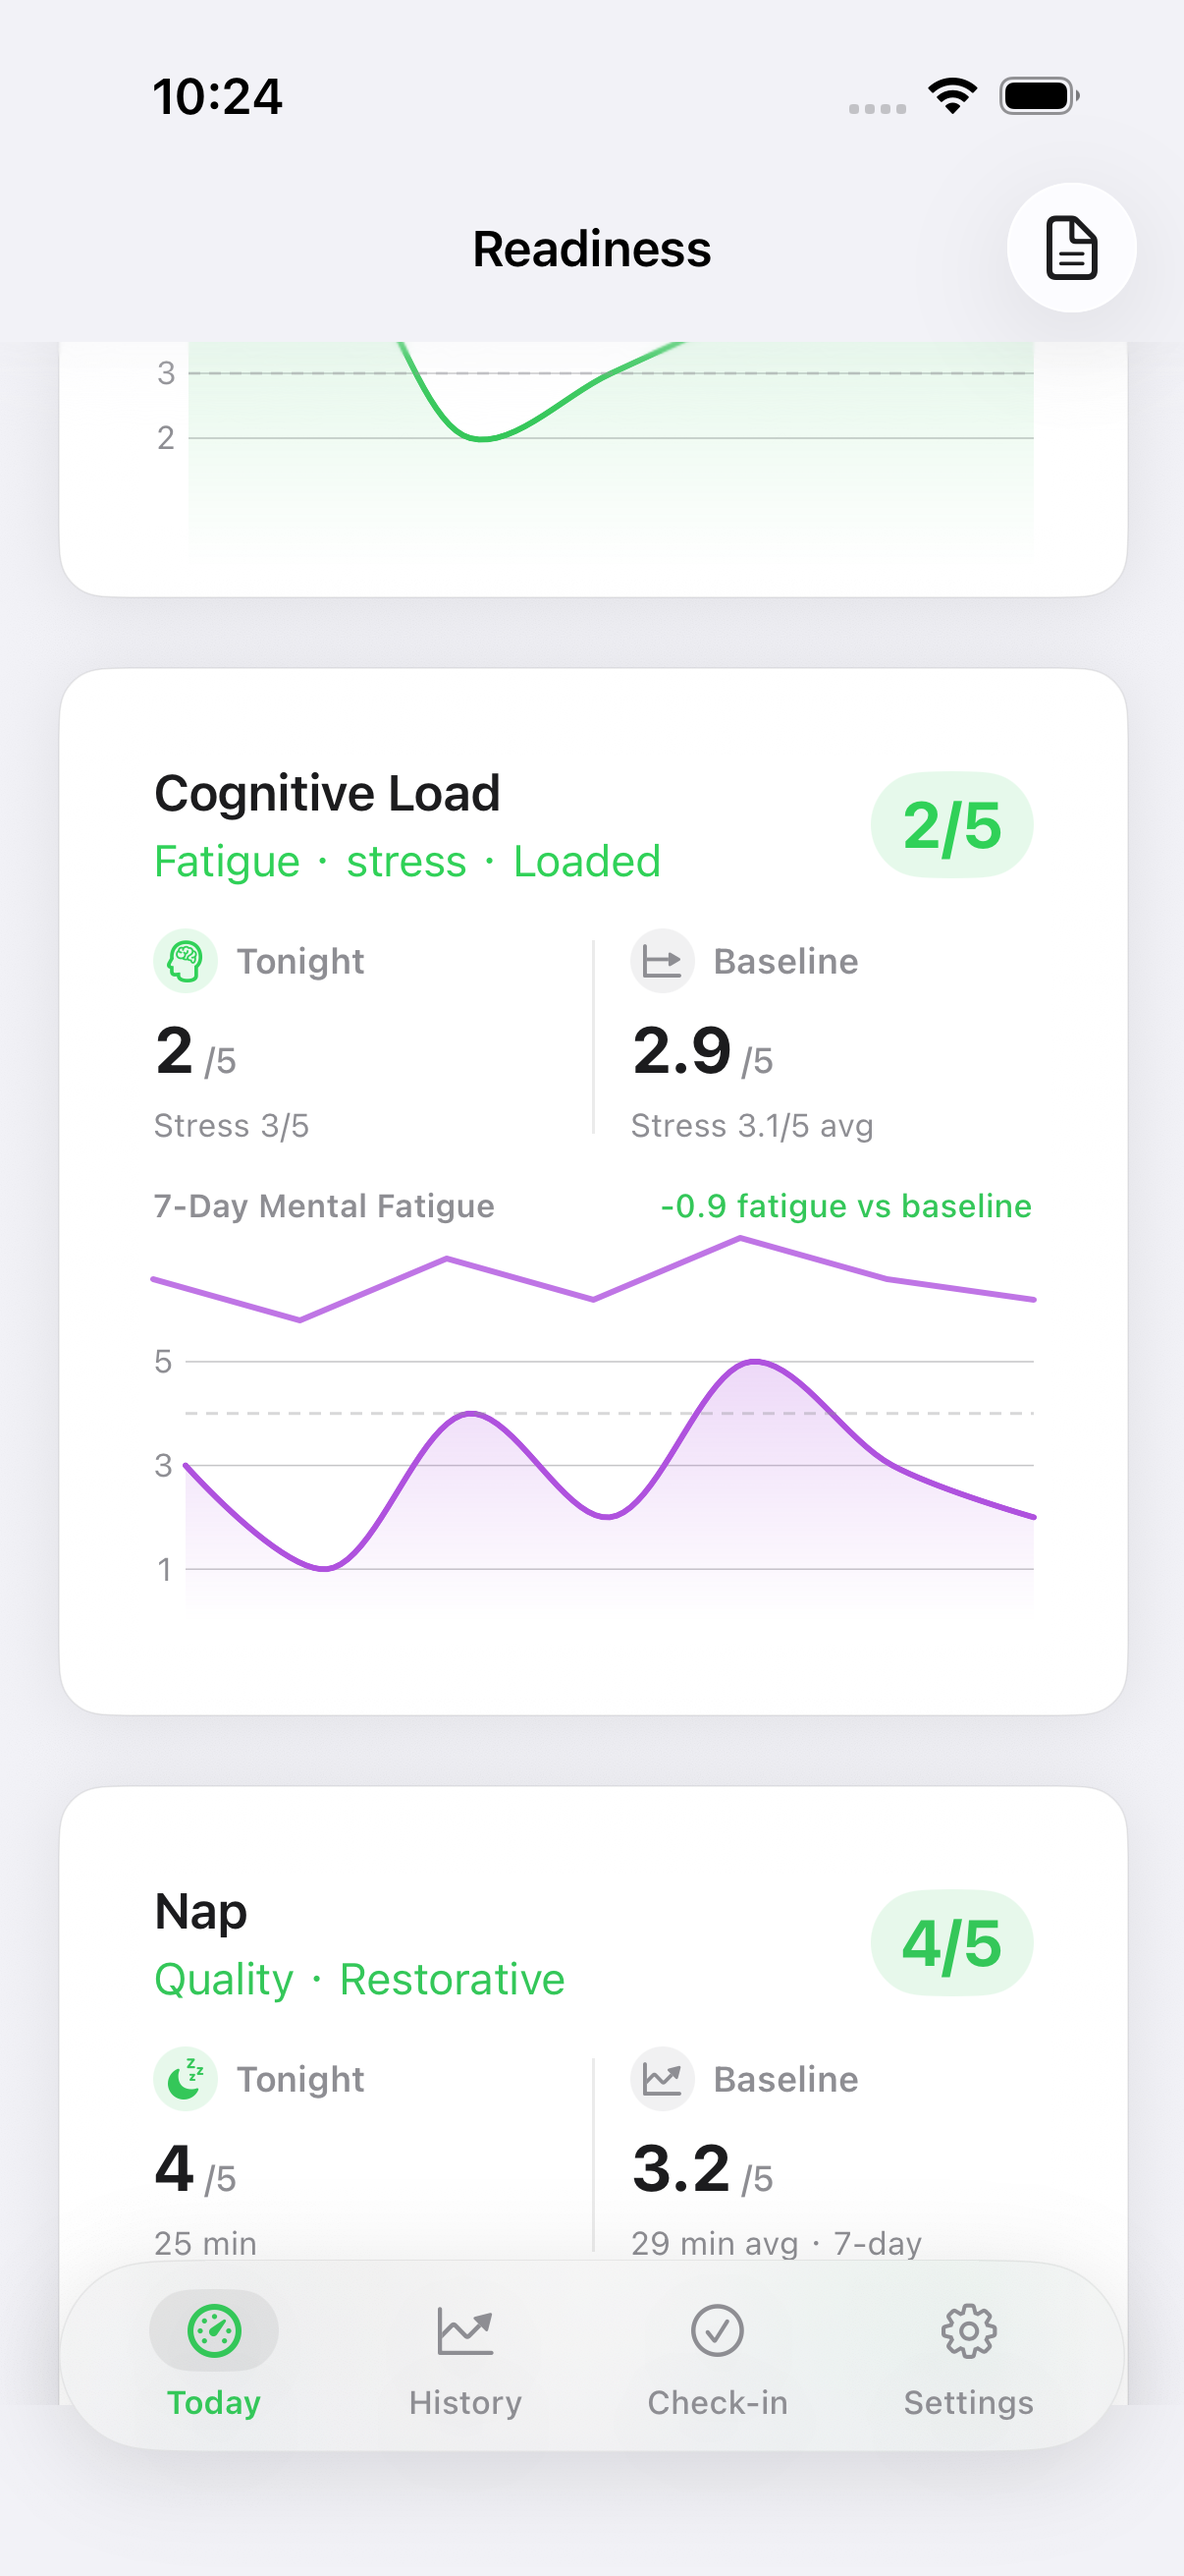
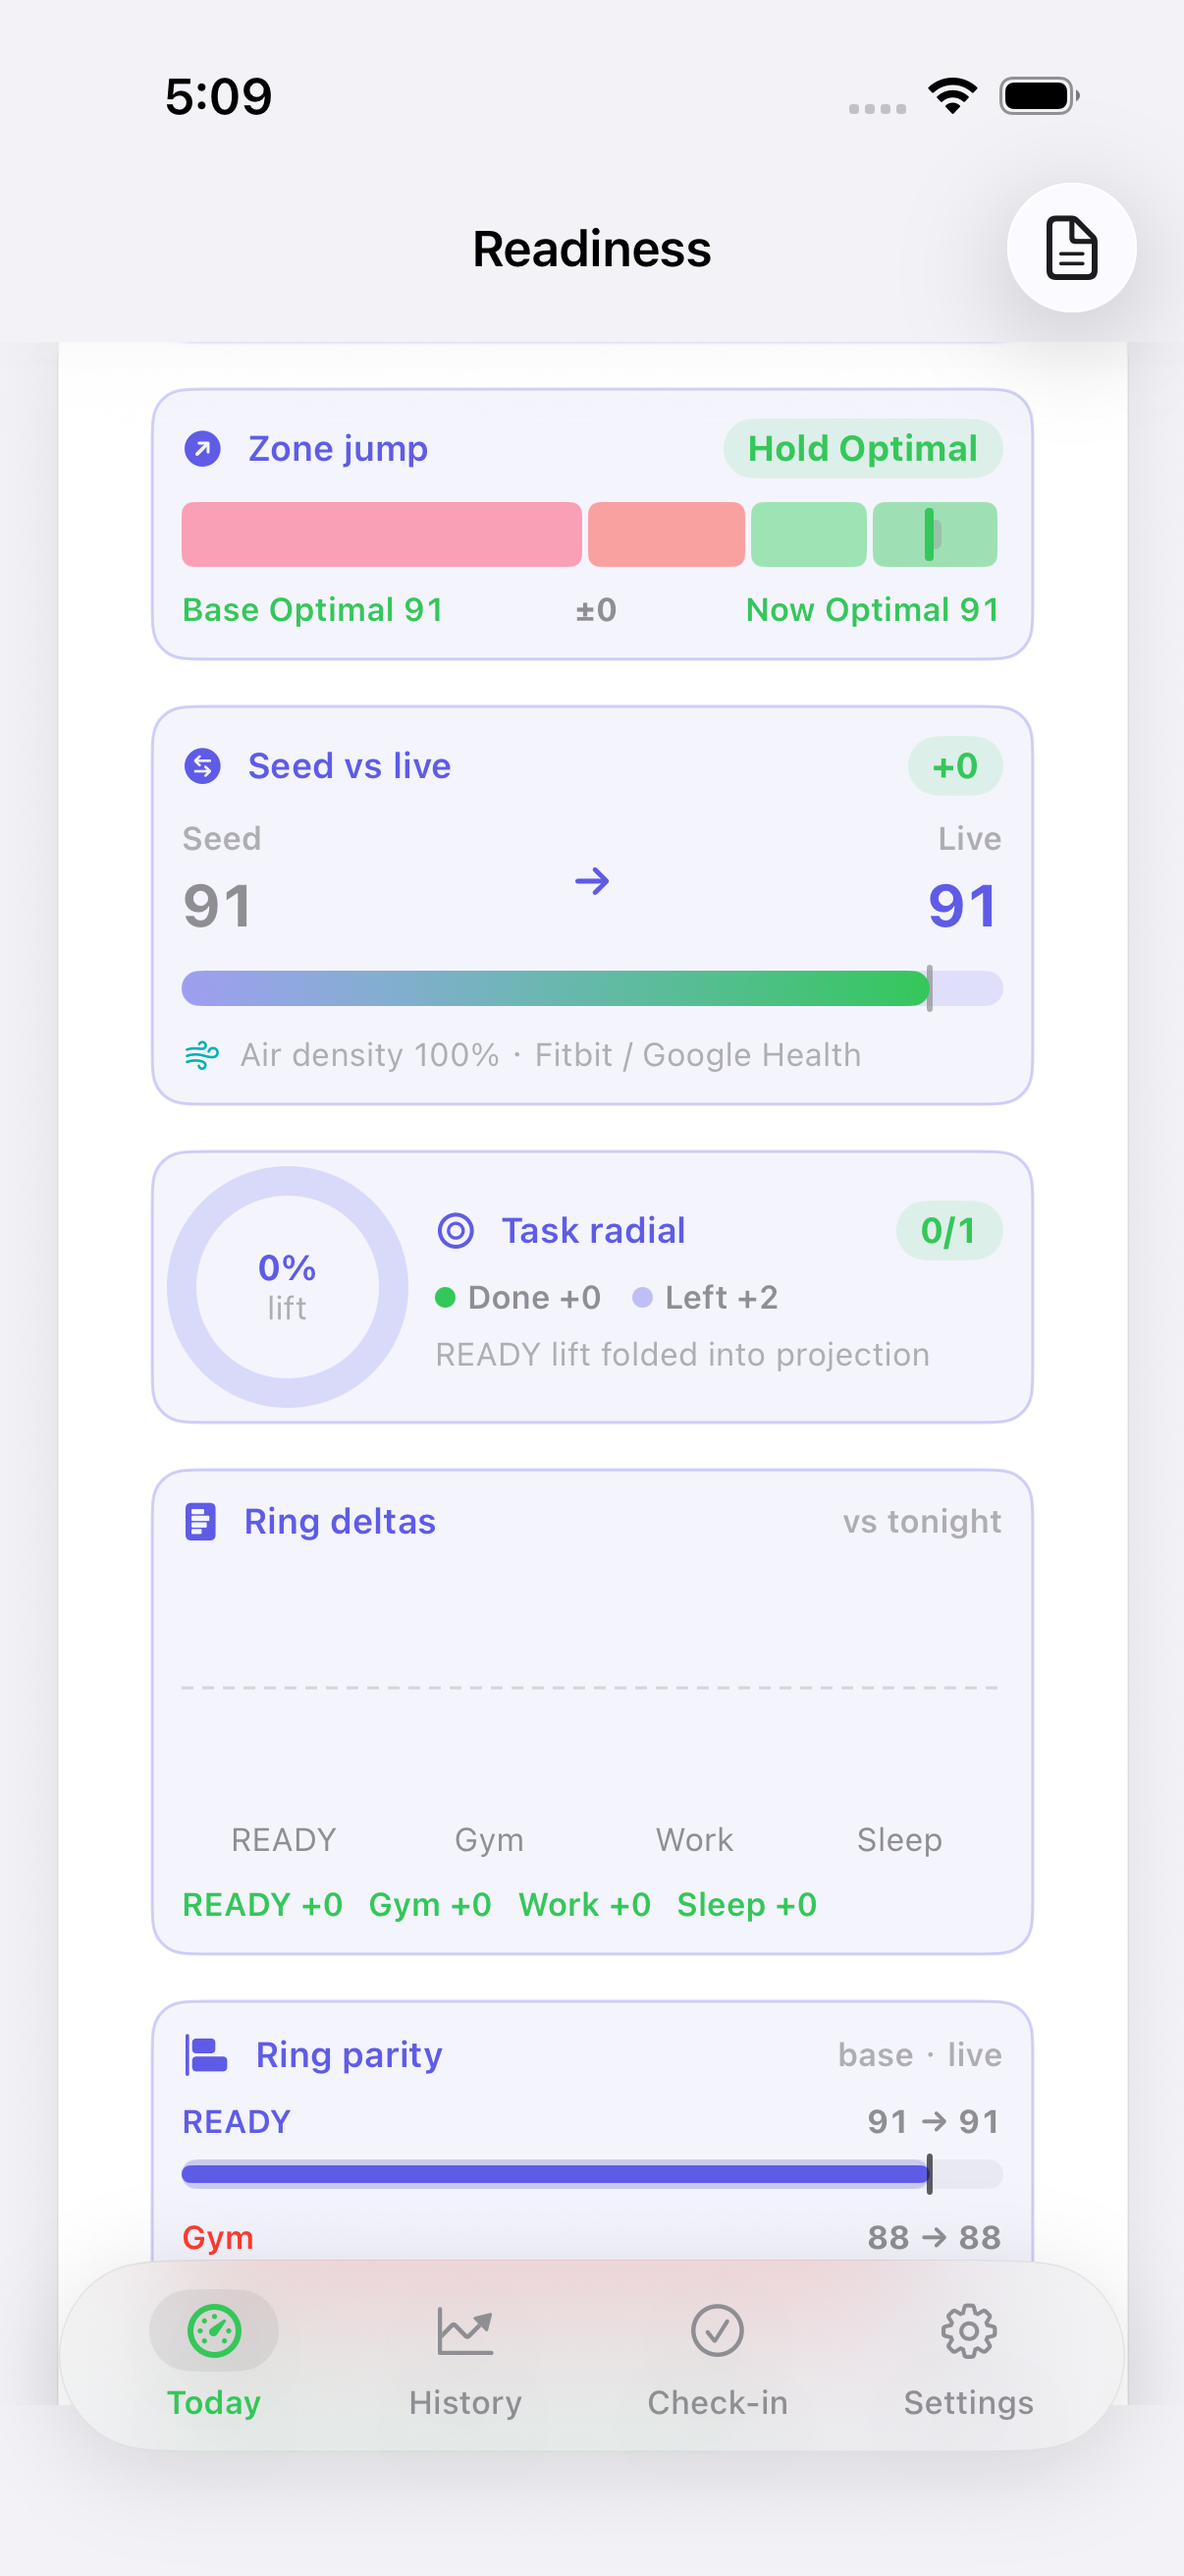
Honest #731: Simulator READY pace (WHOOP wells)
restyle existing sim.load.ready.pace after task ladder #730. Idle (no checks) = ghost/hairline 8%/28%; active = 14% fill + 28% hairline; brisk (pace >= 3) = optimal tone. No new SID or READY formula.
model=deepseek-flash

diff --git a/ReadinessTracker/Views/WhoopFeatures/ReadinessLoadSimulatorCard.swift b/ReadinessTracker/Views/WhoopFeatures/ReadinessLoadSimulatorCard.swift
@@ -2209,7 +2209,7 @@ struct ReadinessLoadSimulatorCard: View {
         .animation(.easeInOut(duration: 0.25), value: completedTaskIDs)
     }
 
-    /// Honest #589: READY pace meter — points gained per checked task (richer sim / Google Health graphics).
+    /// Honest #589 / #731: READY pace meter — points gained per checked task (WHOOP wells; richer sim / Google Health graphics).
     @ViewBuilder
     private var readyPaceMeter: some View {
         let done = tasks.filter { completedTaskIDs.contains($0.id) }
@@ -2222,6 +2222,10 @@ struct ReadinessLoadSimulatorCard: View {
         let tone: Color = pace >= 3 ? RTColor.optimal : (pace >= 2 ? RTColor.good : (n == 0 ? RTColor.secondaryText : RTColor.warning))
         let verb = n == 0 ? "Start" : (pace >= 3 ? "Brisk" : (pace >= 2 ? "Steady" : "Light"))
         let needle = min(1.0, pace / 5.0)
+        let paceIsActive = n > 0
+        let wellTone: Color = paceIsActive
+            ? (pace >= 3 ? RTColor.optimal : accent)
+            : RTColor.secondaryText
         return VStack(alignment: .leading, spacing: 8) {
             HStack(spacing: 8) {
                 Image(systemName: "speedometer")
@@ -2273,10 +2277,10 @@ struct ReadinessLoadSimulatorCard: View {
             }
         }
         .padding(10)
-        .background(accent.opacity(0.07), in: RoundedRectangle(cornerRadius: 12, style: .continuous))
+        .background(wellTone.opacity(paceIsActive ? 0.14 : 0.08), in: RoundedRectangle(cornerRadius: 12, style: .continuous))
         .overlay(
             RoundedRectangle(cornerRadius: 12, style: .continuous)
-                .stroke(accent.opacity(0.28), lineWidth: 1)
+                .stroke(wellTone.opacity(0.28), lineWidth: 1)
         )
         .accessibilityIdentifier(SurfaceID.readinessSimulatorReadyPace)
         .accessibilityLabel("READY pace \(verb), \(String(format: "%.1f", pace)) per task")

diff --git a/ReadinessTracker/Design/Theme.swift b/ReadinessTracker/Design/Theme.swift
@@ -301,7 +301,7 @@ enum SurfaceID {
     static let fitbitAirDensitySlope = "fitbit.air.density.slope"  // Honest #586
     static let readinessSimulatorPathZoneBands = "sim.load.path.zones"  // Honest #587
     static let fitbitAirDensityZScore = "fitbit.air.density.zscore"  // Honest #588
-    static let readinessSimulatorReadyPace = "sim.load.ready.pace"  // Honest #589
+    static let readinessSimulatorReadyPace = "sim.load.ready.pace"  // Honest #589 / #731
     static let fitbitAirDensityACF = "fitbit.air.density.acf"  // Honest #590
     static let readinessSimulatorTaskImpactShare = "sim.load.tasks.impactshare"  // Honest #591
     static let fitbitAirDensityEntropy = "fitbit.air.density.entropy"  // Honest #592

diff --git a/ReadinessTrackerUITests/SurfacesUITests.swift b/ReadinessTrackerUITests/SurfacesUITests.swift
@@ -10609,7 +10609,7 @@ final class SurfacesUITests: XCTestCase {
         }
         saveShot("verify-simulator-task-ladder.png")
 
-        // Honest #589: READY pace meter
+        // Honest #589 / #731: READY pace meter (WHOOP wells)
         let readyPace = app.descendants(matching: .any)["sim.load.ready.pace"].firstMatch
         XCTAssertTrue(readyPace.waitForExistence(timeout: 5)
                       || app.descendants(matching: .any)["sim.load.tasks.ladder"].firstMatch.exists

diff --git a/.cursor/skills/verify-readiness-tracker/features/readiness-simulator-ready-pace.md b/.cursor/skills/verify-readiness-tracker/features/readiness-simulator-ready-pace.md
@@ -1,14 +1,18 @@
-# Simulator READY pace meter
+# Simulator READY pace meter (Honest #589 / #731)
 
 ## Sub-features
 - Pace gauge pp/task + projected-if-pace capsule
-- SurfaceID `sim.load.ready.pace`
+- WHOOP wells: idle (no checks) = ghost/hairline 8%/28%; active (some checks) = 14% fill + 28% hairline in accent; brisk (pace >= 3) = same active well but optimal tone
+- SurfaceID `sim.load.ready.pace` (existing Honest #589; no new SID)
 
 ## How to get to it (user POV)
 Today → Load Simulator → READY pace under impact ladder.
 
 ## Driving it with the harness
-`testReadinessLoadSimulatorSurface` asserts SurfaceID and `saveShot("verify-simulator-ready-pace.png")`.
+`testReadinessLoadSimulatorSurface` asserts SurfaceID near the Honest #589 / #731 block and `saveShot("verify-simulator-ready-pace.png")`.
 
 ## Gotchas
 Hidden when task list empty.
+This restyles existing `readyPaceMeter` chrome only. Keep speedometer icon, "READY pace" label, capsule (`No checks yet` / verb + pp/task), gradient track + needle, footer (Gained / eta / n done), padding(10), cornerRadius 12, SID, accessibilityIdentifier, accessibilityLabel ("READY pace \(verb), \(pace) per task"), animation, and READY formula (pace = gained/n, etaTasks from remainPts/pace).
+Idle (no checks) uses ghost 8%/28% secondaryText; active uses 14% fill + 28% hairline (accent, or optimal if pace >= 3 / Brisk).
+No new SurfaceID or READY formula.

diff --git a/.audit/decision-log-2026-11-04.md b/.audit/decision-log-2026-11-04.md
@@ -241,3 +241,7 @@
 | 16:31 HKT | Honest #730 Simulator task ladder | prove | started UITest /tmp/RT-DD730; model=deepseek-flash | mid-ship |
 | 16:45 HKT | #730 Simulator task ladder | prove | UITest suite green /tmp/RT-DD730 (766.233s, 0 failures); model=deepseek-flash |
 | 16:45 HKT | #730 Simulator task ladder | land | proof PNG + receipt; SID sim.load.tasks.ladder; PR squash next; model=deepseek-flash |
+| 16:58 HKT | Honest #731 Simulator READY pace | model=deepseek-flash | restyle existing sim.load.ready.pace after task ladder #730; WHOOP ghost/active wells | mid-ship |
+| 16:59 HKT | Honest #731 Simulator READY pace | prove | started UITest /tmp/RT-DD731; model=deepseek-flash | mid-ship |
+| 17:16 HKT | #731 READY pace | prove | UITest suite green /tmp/RT-DD731 (765.868s, 0 failures); model=deepseek-flash |
+| 17:18 HKT | #731 READY pace | land | proof PNG + receipt; SID sim.load.ready.pace; PR squash next; model=deepseek-flash |

diff --git a/.audit/features/readiness-simulator-ready-pace.md b/.audit/features/readiness-simulator-ready-pace.md
@@ -1,5 +1,6 @@
-# Honest #589: Simulator READY pace meter
+# Honest #589 / #731: Simulator READY pace meter
 
-Points gained per checked task (Google Health graphics).
-SurfaceID: `sim.load.ready.pace`
+Points gained per checked task (WHOOP wells; Google Health graphics).
+Idle (no checks) = ghost/hairline 8%/28%; active = 14% fill + 28% hairline; brisk (pace >= 3) = optimal tone.
+SurfaceID: `sim.load.ready.pace` (existing; no new SID)
 Proof: `.audit/verify-simulator-ready-pace.png`

diff --git a/.audit/readiness-simulator-ready-pace.md b/.audit/readiness-simulator-ready-pace.md
@@ -1,2 +1,3 @@
-Honest #589: Simulator READY pace
+Honest #589 / #731: Simulator READY pace meter (WHOOP wells)
 SurfaceID sim.load.ready.pace
+Proof: .audit/verify-simulator-ready-pace.png
